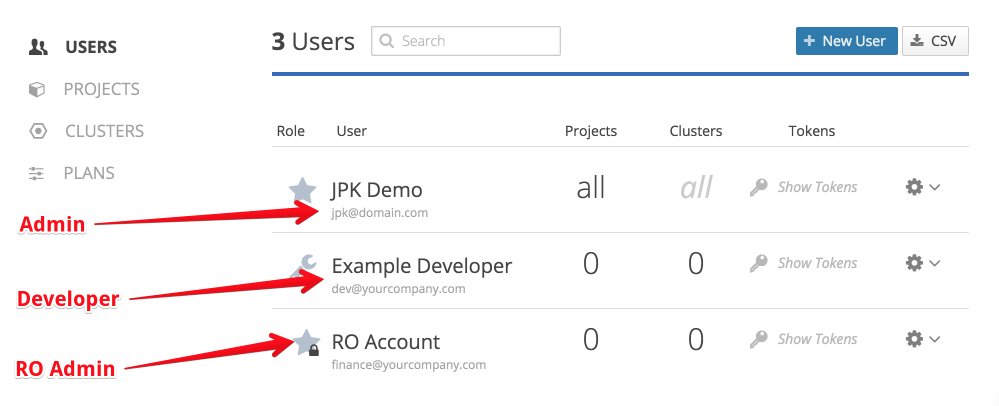
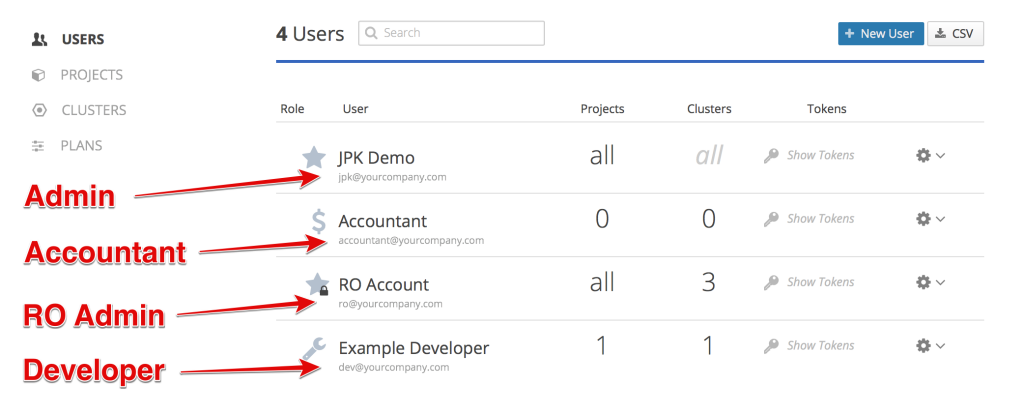
CS-9 update org support docs (#616)
* add accountant role to org support docs, small fixes

* add accountant role to org support docs, small fixes

diff --git a/worker/org_support/index.md b/worker/org_support/index.md
@@ -14,21 +14,22 @@ Iron.io’s Org support allows you to set up one or more members of your team as
     <li><a href="#users">Users</a></li>
     <li><a href="#projects">Projects</a></li>
     <li><a href="#clusters">Clusters</a></li>
-    <li><a href="#plans">Plans</a></li></ul>
+    <li><a href="#plans">Plans</a></li>
+  </ul>
 </section>
 
 <h2 id="users">Users</h2>
 When you first go to this page, you will see a list of all current users and what access they have. If this is a new account, you may only see one entry for the admin.<br />
 <img src='https://raw.githubusercontent.com/iron-io/docs/gh-pages/images/users.png' style="width: 90%;">
 
-To create a new user, click the blue Add User Button. Enter in the information for the first 3 fields. In the Role section, you will see a dropdown with 3 options: Admin, Admin RO and Developer:<br />
+To create a new user, click the blue Add User Button. Enter in the information for the first 3 fields. In the Role section, you will see a dropdown with 4 options: Admin, Admin RO, Developer and Accountant:<br />
 <img src='https://raw.githubusercontent.com/iron-io/docs/gh-pages/images/createUser.png' style="width: 90%;">
 <ul>
-<li><b>Admin</b>- This is the account type that can create projects and users and assign access.  We suggest using an address not tied to one specific person (for example, team@domain.com). This will avoid any access issues if that person is out of town.</li>
-
-<li><b>Admin RO</b>- This account has access to the Organization menu, but can not add or edit anything. It was designed to be used for finance teams or other people that need to see anything, but not make changes.</li>
-
-<li><b>Developer</b>- This is the standard Iron.io account. Users created as developers will only have access to the projects that the admin has given them.</li></ul>
+  <li><b>Admin</b>- This is the account type that can create projects and users and assign access.  We suggest using an address not tied to one specific person (for example, team@domain.com). This will avoid any access issues if that person is out of town.</li>
+  <li><b>Admin RO</b>- This account has access to the Organization menu, but can not add or edit anything. It was designed to be used for finance teams or other people that need to see anything, but not make changes.</li>
+  <li><b>Developer</b>- This is the standard Iron.io account. Users created as developers will only have access to the projects that the admin has given them.</li>
+  <li><b>Accountant</b>- This is the account type that can manage billing information for Org Support account. Users created as accountants will only have access to the billing page and will not be able to access to projects and clusters of organization.</li>
+</ul>
 
 <img src='https://raw.githubusercontent.com/iron-io/docs/gh-pages/images/madeRoles.png' style="width: 90%;">
 
@@ -36,15 +37,16 @@ Once the other users have been added, it’s time to assign their access. To the
 <img src='https://raw.githubusercontent.com/iron-io/docs/gh-pages/images/gearWithDripDowns.png' style="width: 90%;">
 
 <ul>
-<li><b>Manage User Projects</b>- Allows you to give or remove access from the projects in your organization.</li>
+  <li><b>Manage User Projects</b>- Allows you to give or remove access from the projects in your organization.</li>
 
-<li><b>Manage User Clusters</b>- Customers using Iron Hybrid worker (https://www.iron.io/hybrid-iron-io-on-premise-job-processing-with-the-help-of-the-cloud/) can control which clusters people will have access to.</li>
+  <li><b>Manage User Clusters</b>- Customers using Iron Hybrid worker (https://www.iron.io/hybrid-iron-io-on-premise-job-processing-with-the-help-of-the-cloud/) can control which clusters people will have access to.</li>
 
-<li><b>Manage User Roles</b>- This allows you to change the role of each user</li>
+  <li><b>Manage User Roles</b>- This allows you to change the role of each user</li>
 
-<li><b>Edit User</b>- Gives the ability to change a user’s name or email address</li>
+  <li><b>Edit User</b>- Gives the ability to change a user’s name or email address</li>
 
-<li><b>Delete User</b>- Removes the user’s account</li></ul>
+  <li><b>Delete User</b>- Removes the user’s account</li>
+</ul>
 
 <h2 id="projects">Projects</h2>
 When you first click into this page, you will see a list of all the current projects owned by your organization
@@ -56,10 +58,12 @@ You can click the Blue Create Button to make a new project, or click the gear to
 Customers making user of Iron.io’s Hybrid worker can use this tab to spin up as many cluster as they need. When you first go to the page, you will see all existing clusters you have made already
 <img src='https://raw.githubusercontent.com/iron-io/docs/gh-pages/images/clusterOverview.png' style="width: 90%;"><br />
 
-To create a new cluster, click the blue New Cluster and fill out the following information:<ul>
-<li><b>Cluster name</b>- A unique name to allow easier use of the new cluster.</li>
-<li><b>Memory per runner</b>- This is the amount of memory each worker can use.</li>
-<li><b>Disk Space per runner</b>- How much disk space each runner will have to use.</li></ul>
+To create a new cluster, click the blue New Cluster and fill out the following information:
+<ul>
+	<li><b>Cluster name</b>- A unique name to allow easier use of the new cluster.</li>
+	<li><b>Memory per runner</b>- This is the amount of memory each worker can use.</li>
+	<li><b>Disk Space per runner</b>- How much disk space each runner will have to use.</li>
+</ul>
 
 <h2 id="plans">Plans</h2>
 This page will give you an overview of the plans your organization uses for IronWorker, IronMQ and IronCache.

diff --git a/mq/3/reference/auth_api/index.md b/mq/3/reference/auth_api/index.md
@@ -35,7 +35,7 @@ Project consists of the following properties:
   "max_schedules"
   "schedules_count"
   "task_count"
-  "hourly_task\_count"
+  "hourly_task_count"
   "hourly_time"
   "flags"
   "shared_with"
